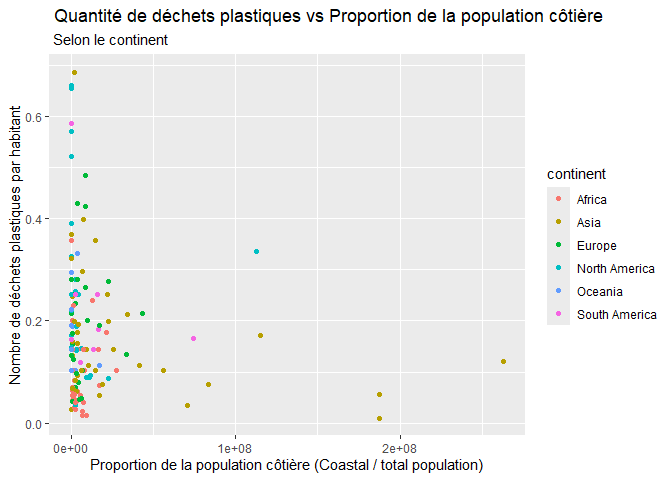
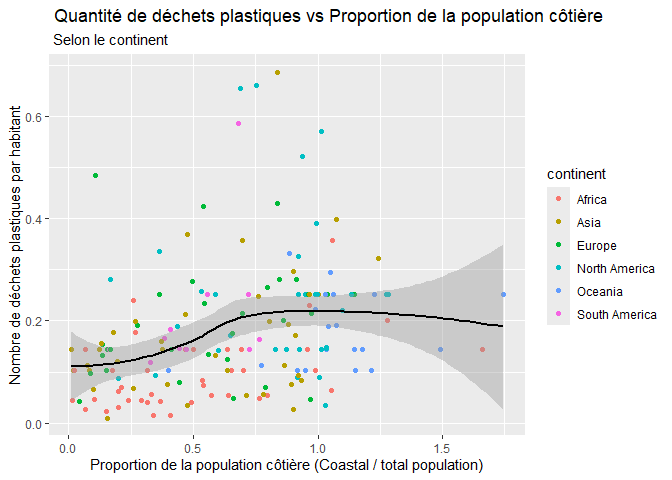
Version finale

diff --git a/lab-02.md b/lab-02.md
@@ -103,7 +103,8 @@ ggplot(plastic_waste,
 
 ![](lab-02_files/figure-gfm/plastic-waste-violin-1.png)<!-- -->
 
-Réponse à la question…
+Le graphe violin plot permet de voir en plus la forme de la distribution
+des valeurs.
 
 ### Exercise 4
 
@@ -117,7 +118,11 @@ ggplot(plastic_waste,
 
 ![](lab-02_files/figure-gfm/plastic-waste-mismanaged-1.png)<!-- -->
 
-Réponse à la question…
+Selon le graphique, l’Europe et l’Amérique du Nord ont la quantité de
+déchet par habitant par jour la plus élevé mais les taux les plus bas de
+déchet non gérés. Cette analyse est censée, car les continent plus
+pauvres font logiquement moins de déchet mais n’ont pas les ressources
+pour gérer ceux-ci.
 
 ### Exercise 5
 
@@ -144,7 +149,10 @@ ggplot(plastic_waste,
 
 ![](lab-02_files/figure-gfm/plastic-waste-population-coastal-1.png)<!-- -->
 
-Réponse à la question…
+La comparaison des graphiques montre que les habitants prochent des
+côtes ont tendance à faire plus de déchet que la population générale. En
+efftet, l’Afrique est très peuplé, donc il y a plus de personnes aux
+côtes rejetant des déchets.
 
 ## Conclusion
 
@@ -152,11 +160,22 @@ Recréez la visualisation:
 
 ``` r
 ggplot(plastic_waste, 
-       aes(x = coastal_pop, 
+       aes(x = (coastal_pop / total_pop), 
            y = plastic_waste_per_cap,
-           color = continent)) +
+           color = continent,)) +
   geom_point() +
+    geom_smooth(method = "loess", se = TRUE, color = 'black') +
   labs(title = " Quantité de déchets plastiques vs Proportion de la population côtière ", subtitle = " Selon le continent ", x = "Proportion de la population côtière (Coastal / total population)", y = "Nombre de déchets plastiques par habitant" )
 ```
 
-![](lab-02_files/figure-gfm/recreate-viz-1.png)<!-- -->
+    ## `geom_smooth()` using formula = 'y ~ x'
+
+    ## Warning: Removed 10 rows containing non-finite outside the scale range
+    ## (`stat_smooth()`).
+
+    ## Warning: Removed 10 rows containing missing values or values outside the scale range
+    ## (`geom_point()`).
+
+![](lab-02_files/figure-gfm/recreate-viz-1.png)<!-- --> La courbe de
+tendance montre que la quantité de déchets plastiques augmente plus la
+population côtière est dense.
